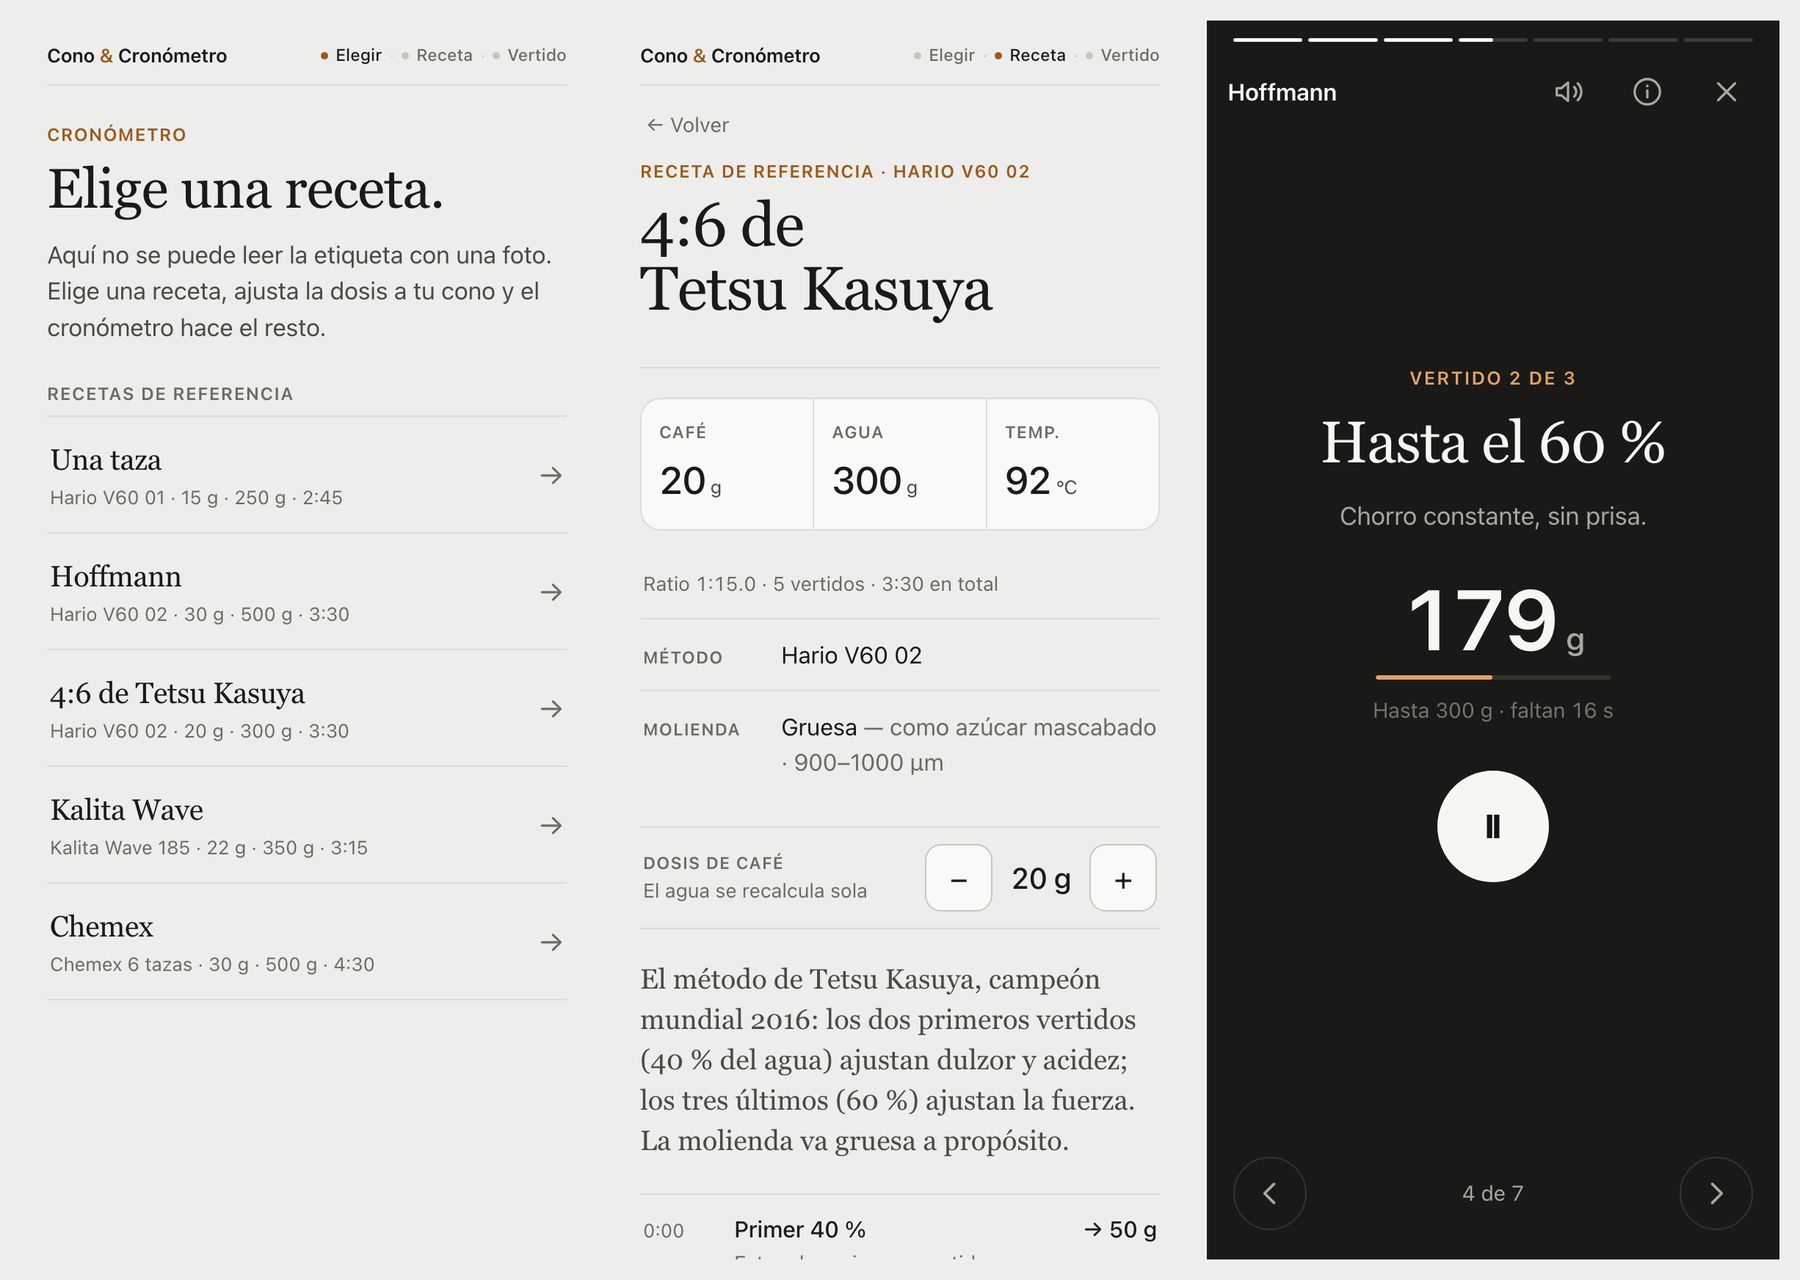
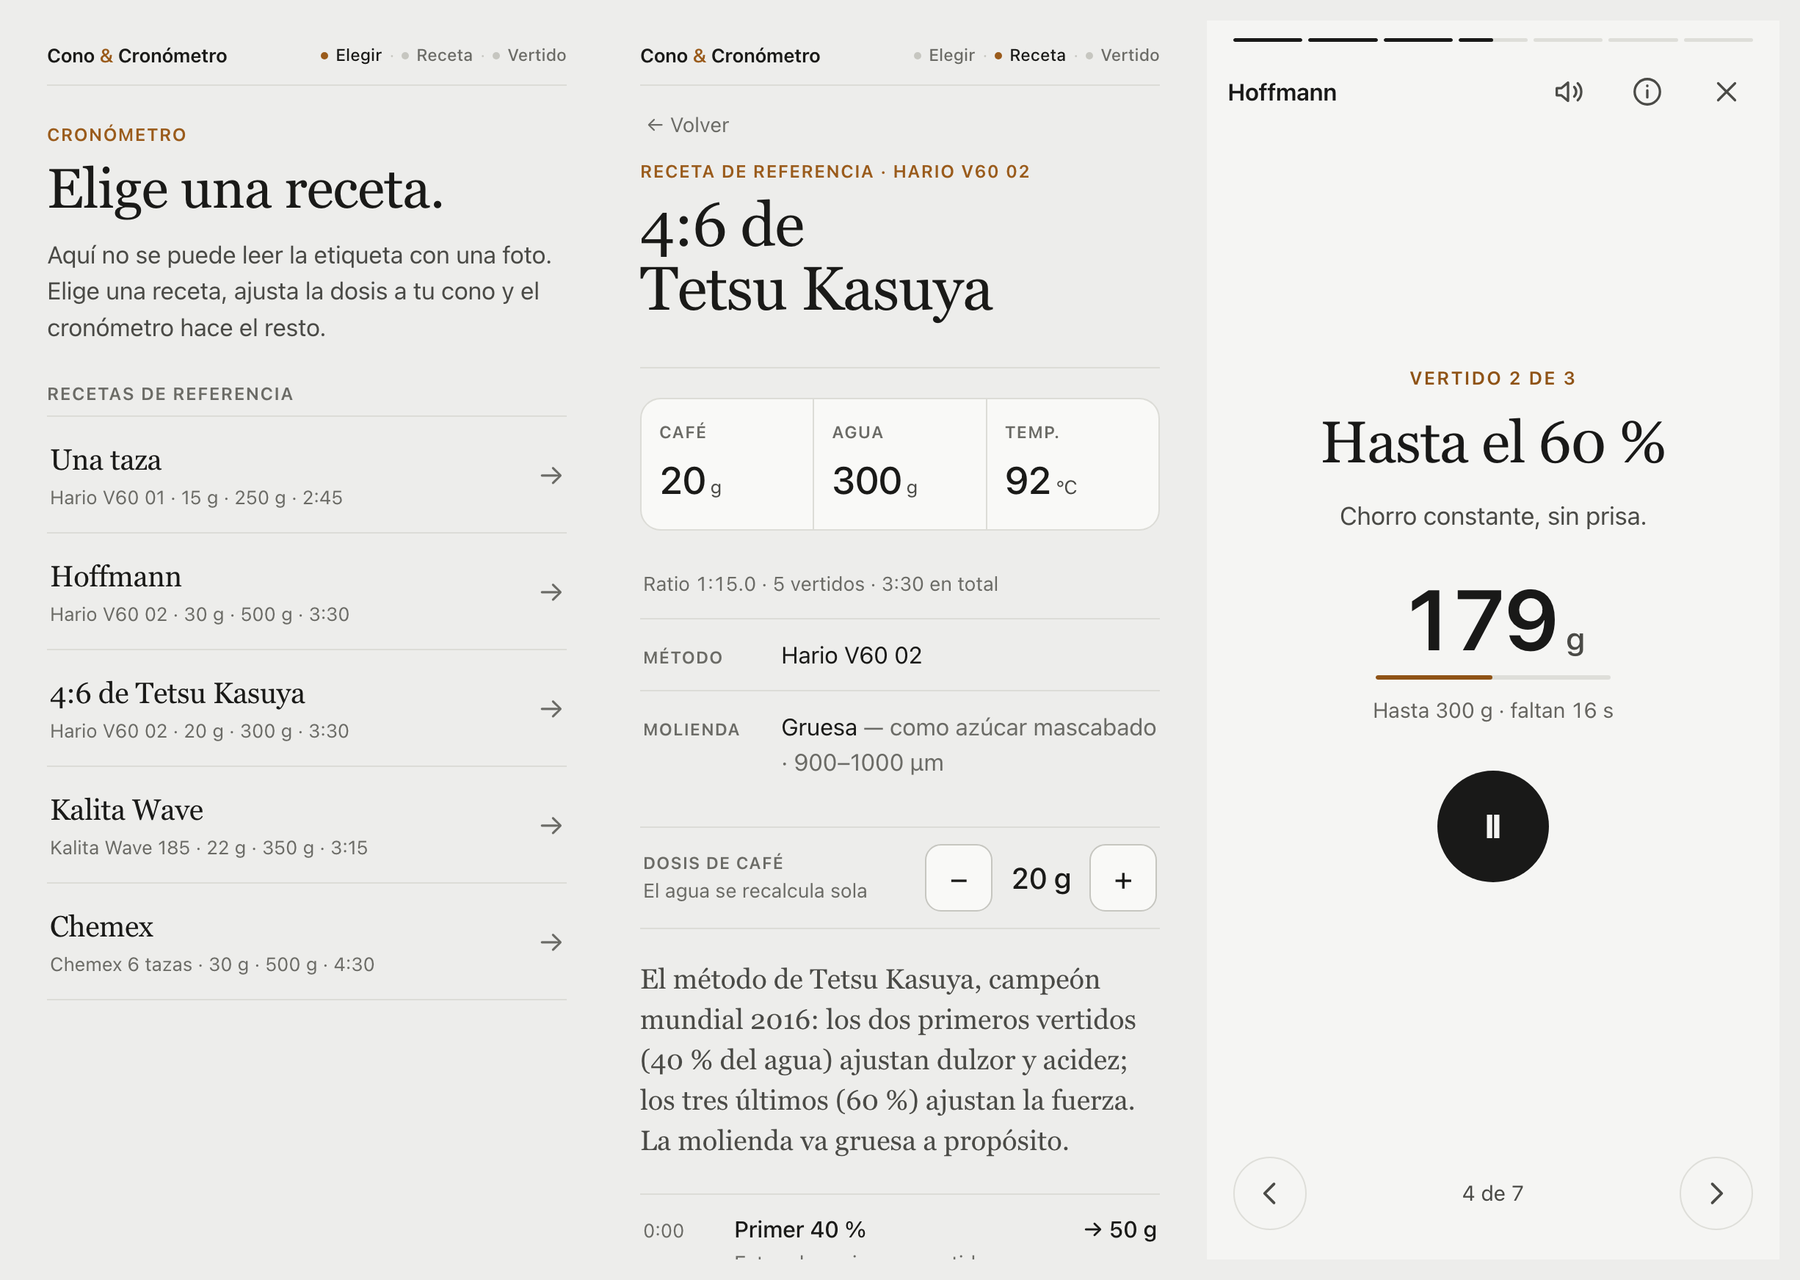
La pantalla de vertido respeta el tema claro
Era la única superficie con colores fijos. Ahora sus tokens se redefinen en
los tres estados de tema como el resto de la app.

De paso arregla dos cosas que el modo oscuro escondía: el glifo del botón de
play era un negro fijo, así que en claro habría desaparecido sobre un círculo
negro (ahora toma el color del fondo), y el gris del texto secundario daba
3.8:1 sobre el fondo oscuro, por debajo de AA.

diff --git a/index.html b/index.html
@@ -195,29 +195,42 @@ button{font:inherit;color:inherit}
 .evid b{font-size:11.5px;letter-spacing:.05em;text-transform:uppercase;display:block;margin-bottom:4px;font-weight:600}
 
 /* ================= paso 3 · pantalla de vertido ================= */
-/* Superficie de foco: oscura en los dos temas, a propósito. */
+/* Superficie de foco a pantalla completa. Sigue el tema como el resto. */
 .brew{
-  --b-bg:#191918; --b-ink:#F7F6F3; --b-ink-2:#A9A7A1; --b-ink-3:#76746E;
-  --b-line:#333330; --b-accent:#E3A264;
+  --b-bg:#F5F5F3; --b-ink:#191918; --b-ink-2:#4A4A46; --b-ink-3:#65645F;
+  --b-line:#DEDED9; --b-track:#DEDED9; --b-fill:#EAEAE6;
+  --b-accent:#8F5316; --b-ok:#2C6A4C;
   position:fixed;inset:0;z-index:60;background:var(--b-bg);color:var(--b-ink);
   display:flex;flex-direction:column;
   padding:env(safe-area-inset-top,0px) 0 env(safe-area-inset-bottom,0px);
   animation:fade .25s ease both}
 @keyframes fade{from{opacity:0}to{opacity:1}}
+@media (prefers-color-scheme: dark){
+  :root:not([data-theme="light"]) .brew{
+    --b-bg:#191918; --b-ink:#F7F6F3; --b-ink-2:#A9A7A1; --b-ink-3:#8A8883;
+    --b-line:#333330; --b-track:#3A3A36; --b-fill:#242421;
+    --b-accent:#E3A264; --b-ok:#7FC6A0;
+  }
+}
+:root[data-theme="dark"] .brew{
+  --b-bg:#191918; --b-ink:#F7F6F3; --b-ink-2:#A9A7A1; --b-ink-3:#8A8883;
+  --b-line:#333330; --b-track:#3A3A36; --b-fill:#242421;
+  --b-accent:#E3A264; --b-ok:#7FC6A0;
+}
 
 /* segmentos de progreso */
 .segs{display:flex;gap:4px;padding:12px 18px 0}
-.segs i{flex:1;height:2.5px;border-radius:2px;background:#3A3A36;overflow:hidden;display:block}
+.segs i{flex:1;height:2.5px;border-radius:2px;background:var(--b-track);overflow:hidden;display:block}
 .segs i b{display:block;height:100%;width:0;background:var(--b-ink);border-radius:2px}
 
 /* cabecera */
 .brew-top{display:flex;align-items:center;gap:10px;padding:12px 14px 4px}
-.bag{width:34px;height:34px;border-radius:7px;object-fit:cover;flex:none;background:#2A2A27}
+.bag{width:34px;height:34px;border-radius:7px;object-fit:cover;flex:none;background:var(--b-fill)}
 .brew-title{flex:1;min-width:0;font-size:16px;font-weight:600;letter-spacing:-.01em;margin:0;
   white-space:nowrap;overflow:hidden;text-overflow:ellipsis}
 .ico{width:44px;height:44px;flex:none;border:0;background:none;color:var(--b-ink-2);
   display:grid;place-items:center;cursor:pointer;border-radius:50%}
-.ico:hover{color:var(--b-ink);background:#26262300}
+.ico:hover{color:var(--b-ink);background:var(--b-fill)}
 .ico svg{width:23px;height:23px;fill:none;stroke:currentColor;stroke-width:1.7;stroke-linecap:round;stroke-linejoin:round}
 .ico[aria-pressed="false"]{color:var(--b-ink-3)}
 
@@ -237,11 +250,11 @@ button{font:inherit;color:inherit}
 .c-num{display:flex;align-items:baseline;justify-content:center;gap:7px;line-height:1;margin:0 0 10px}
 .c-num span{font-size:58px;font-weight:600;letter-spacing:-.035em;font-variant-numeric:tabular-nums}
 .c-num i{font-style:normal;font-size:22px;font-weight:500;color:var(--b-ink-2)}
-.c-bar{width:160px;max-width:60vw;height:3px;border-radius:3px;background:#34342F;margin:0 0 10px;overflow:hidden}
+.c-bar{width:160px;max-width:60vw;height:3px;border-radius:3px;background:var(--b-track);margin:0 0 10px;overflow:hidden}
 .c-bar b{display:block;height:100%;width:0;background:var(--b-accent);border-radius:3px}
 .c-sub{font-size:14.5px;color:var(--b-ink-3);margin:0 0 30px;min-height:20px;font-variant-numeric:tabular-nums}
 
-.play{width:76px;height:76px;border-radius:50%;border:0;background:var(--b-ink);color:#141413;
+.play{width:76px;height:76px;border-radius:50%;border:0;background:var(--b-ink);color:var(--b-bg);
   display:grid;place-items:center;cursor:pointer;flex:none;
   transition:transform .12s ease,opacity .15s}
 .play:hover{opacity:.9}
@@ -250,25 +263,25 @@ button{font:inherit;color:inherit}
 .c-extra{margin-top:22px;display:flex;flex-direction:column;align-items:center;gap:10px;width:100%;max-width:330px}
 .b-ghost{border:1px solid var(--b-line);background:none;color:var(--b-ink);border-radius:12px;
   padding:13px 22px;min-height:48px;font-size:16px;font-weight:500;cursor:pointer;width:100%}
-.b-ghost:hover{background:#232320}
+.b-ghost:hover{background:var(--b-fill)}
 
 /* cata final */
 .taste{width:100%;max-width:330px;display:grid;gap:9px;margin-top:6px}
 .taste .tt{font-size:14.5px;color:var(--b-ink-2);margin:0 0 4px}
-.taste .tip{padding:14px;border-radius:12px;background:#232320;border:1px solid var(--b-line);
+.taste .tip{padding:14px;border-radius:12px;background:var(--b-fill);border:1px solid var(--b-line);
   font-size:15px;text-align:left;color:var(--b-ink-2)}
 .taste .tip b{display:block;color:var(--b-ink);font-size:12px;letter-spacing:.06em;
   text-transform:uppercase;margin-bottom:5px;font-weight:600}
-.taste .ok{font-size:13.5px;color:#7FC6A0;margin:2px 0 0}
+.taste .ok{font-size:13.5px;color:var(--b-ok);margin:2px 0 0}
 .drain-note{font-size:14.5px;color:var(--b-ink-2);margin:0 0 22px;font-variant-numeric:tabular-nums}
 .drain-note b{color:var(--b-ink);font-weight:600}
 
 /* navegación */
 .nav{display:flex;align-items:center;justify-content:space-between;gap:16px;
   padding:14px 18px 20px;flex:none}
-.nav .round{width:50px;height:50px;border-radius:50%;background:#26262300;border:1px solid var(--b-line);
+.nav .round{width:50px;height:50px;border-radius:50%;background:none;border:1px solid var(--b-line);
   color:var(--b-ink-2);display:grid;place-items:center;cursor:pointer}
-.nav .round:hover{color:var(--b-ink);background:#232320}
+.nav .round:hover{color:var(--b-ink);background:var(--b-fill)}
 .nav .round[disabled]{opacity:.3;cursor:default}
 .nav .round svg{width:22px;height:22px;fill:none;stroke:currentColor;stroke-width:2;stroke-linecap:round;stroke-linejoin:round}
 .nav .count{font-size:14.5px;color:var(--b-ink-2);font-variant-numeric:tabular-nums}

diff --git a/README.md b/README.md
@@ -25,6 +25,14 @@ Una página, sin dependencias ni build. Abre `index.html` y ya.
 - **Cinco recetas de referencia**: una taza (V60), Hoffmann, 4:6 de Tetsu
   Kasuya, Kalita Wave y Chemex, cada una con su porqué y sus correcciones.
 
+## Temas
+
+Claro y oscuro, incluida la pantalla de vertido, que es la que más rato miras.
+Todos los colores salen de tokens redefinidos en los tres estados que existe
+de verdad: `:root` (claro), `@media (prefers-color-scheme: dark)` protegido con
+`:root:not([data-theme="light"])`, y `:root[data-theme="dark"]` para que un
+cambio manual gane en los dos sentidos.
+
 ## Tipografía
 
 Fuentes del sistema, cero descargas: `ui-serif` para los títulos (New York en
